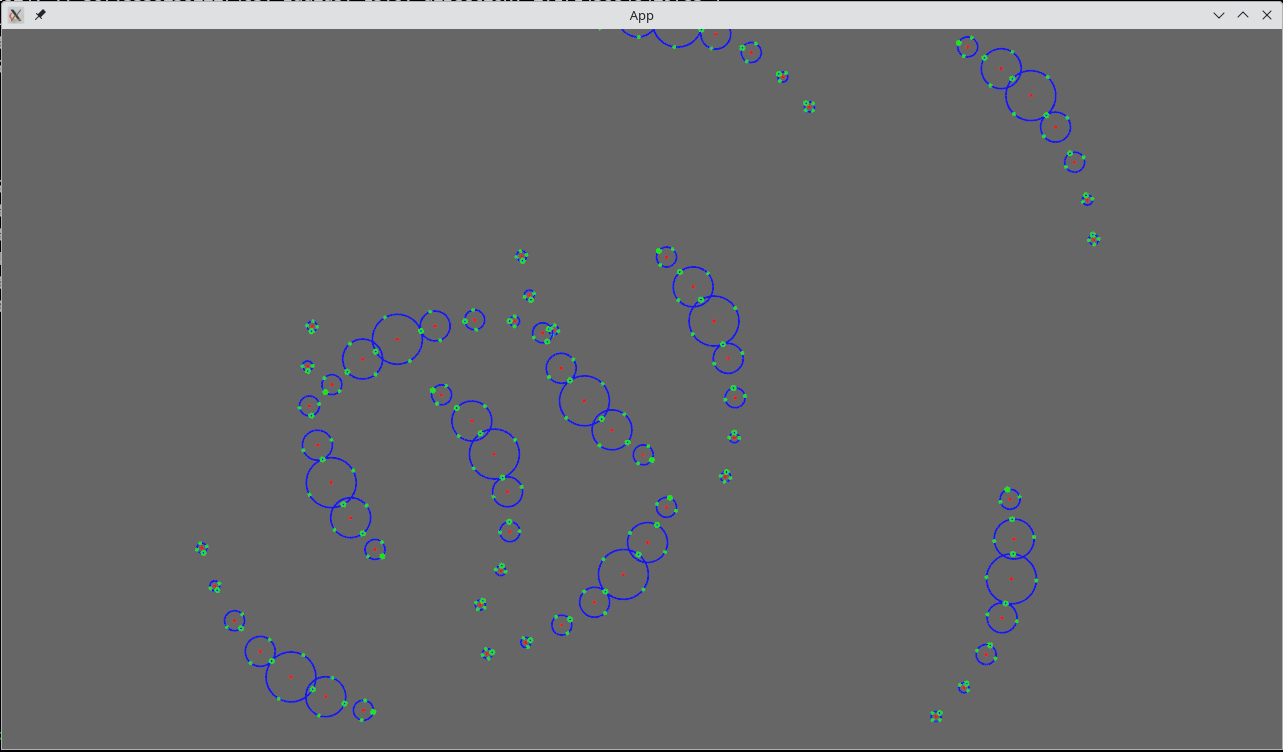
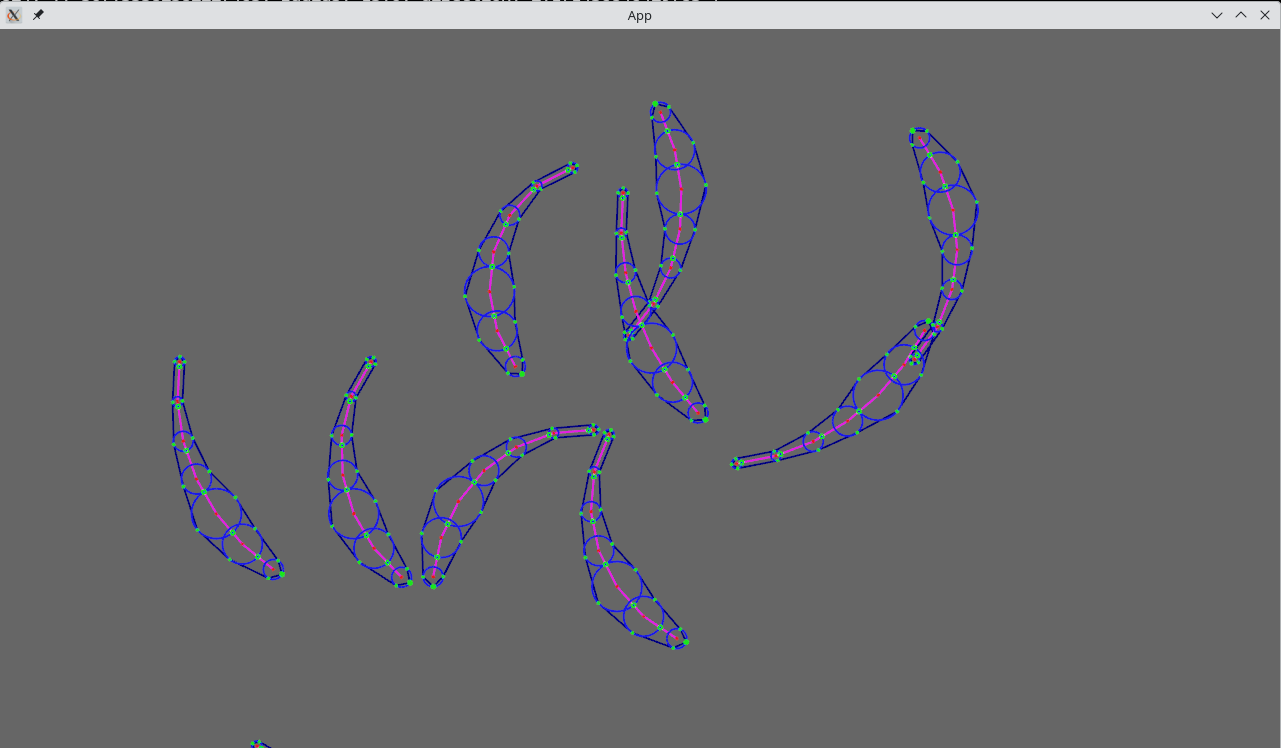
added sceleton connections and simple linear contours

diff --git a/src/main.rs b/src/main.rs
@@ -68,6 +68,39 @@ fn animate_circles(
 
         chain.circle_chain.position_head(x as f64, y as f64);
         chain.circle_chain.allign_nodes();
+        if chain.circle_chain.is_visible_sceleton {
+            for i in 0..chain.circle_chain.circles.len() - 1 {
+                let node = &chain.circle_chain.circles[i];
+                let next_node = &chain.circle_chain.circles[i + 1];
+                gizmos.line_2d(
+                    Vec2::new(node.x as f32, node.y as f32),
+                    Vec2::new(next_node.x as f32, next_node.y as f32),
+                    Color::rgb(0.9, 0.1, 0.9),
+                );
+            }
+        }
+        if chain.circle_chain.is_visible_contour {
+            let mut contour_nodes = Vec::new();
+            for node in seven_node_contour() {
+                let node_index = node.center_node_index;
+                let index_angle = chain.circle_chain.circles[node_index].direction;
+                let rel_angle = node.angle;
+                let angle = (index_angle + rel_angle) as f32;
+                let center_x = chain.circle_chain.circles[node_index].x as f32;
+                let center_y = chain.circle_chain.circles[node_index].y as f32;
+                let radius = chain.circle_chain.circles[node_index].radius as f32;
+                let x = center_x + radius * angle.cos();
+                let y = center_y + radius * angle.sin();
+                contour_nodes.push(Vec2::new(x, y));
+            }
+            for i in 0..contour_nodes.len() {
+                gizmos.line_2d(
+                    contour_nodes[i],
+                    contour_nodes[(i + 1) % contour_nodes.len()],
+                    Color::rgb(0.0, 0.0, 0.5),
+                );
+            }
+        }
         for circle in &chain.circle_chain.circles {
             transform.translation = Vec3::new(circle.x as f32, circle.y as f32, 0.0);
             let radius = circle.radius as f32;

diff --git a/src/shapes/circle.rs b/src/shapes/circle.rs
@@ -59,6 +59,7 @@ pub struct CircleChain {
     pub is_visible_nodes: bool,
     pub is_visible_indizes: bool,
     pub is_visible_contour_dots: bool,
+    pub is_visible_sceleton: bool,
 }
 
 impl CircleChain {
@@ -80,6 +81,7 @@ impl CircleChain {
             is_visible_nodes: true,
             is_visible_contour_dots: true,
             is_visible_indizes: true,
+            is_visible_sceleton: true,
         }
     }
     pub fn add_circle(&mut self, circle: &CircularNode) {
